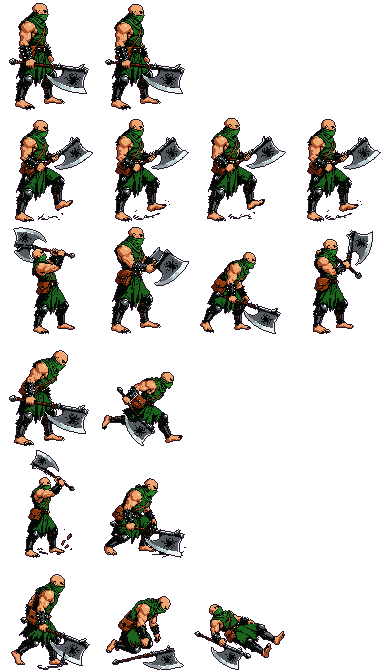
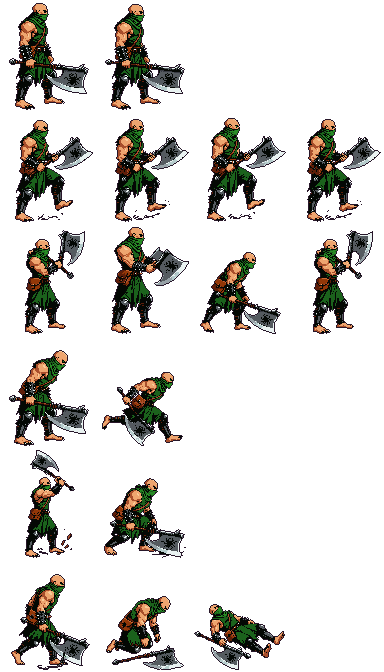
D667: Mayor Hall boss wind-up copies the raised-axe frame
Claude-Session: https://claude.ai/code/session_01A2gnDWaoeJGbj3GPH4dnCF

Changed region(s): [[0.0312, 0.3438, 0.2188, 0.5]]

diff --git a/Scripts/Tools/comfy_sprite.py b/Scripts/Tools/comfy_sprite.py
@@ -2181,9 +2181,7 @@ CHARACTERS = {
             (
                 "attack",
                 [
-                    "in the same side view facing right: winding up, gripping the huge axe in both hands and lifting it up over "
-                    "his right shoulder, the same axe as in the picture: the same long straight handle, the same single "
-                    "broad steel blade with the black scorpion sign, the same size and shape, not bent, leaning back",  # D648: замах перекрутив сокиру
+                    "ROT:attack:3:0",  # D667: модель двічі перекрутила сокиру в замаху — копія піднятої сокири з кінця ряду
                     "in the same side view facing right: the huge axe swung forward and down in both hands, its blade in "
                     "front of his chest; no motion trail, no swoosh line",
                     "in the same side view facing right: follow-through, the axe blade low in front of him near the "

diff --git a/design/figma_decision_register.md b/design/figma_decision_register.md
@@ -822,3 +822,4 @@ The end screen is drawn in Figma first (#54's "demo end screen", Claude draws). 
 | D664 | ROUTINE CALL | **The Mayor Hall fight with the Scorpicore axe-warrior, as built** (D468, D556, D557, D644; `cloud/mayor-boss`). `Scenes/Characters/Bosses/scorpicore_warrior.tscn` (`enemy_type` `scorpicore_warrior`, bar name "The Scorpicore Axe-Warrior", uk «Сокирник Скорпікори», agent call: he has no name yet) uses `mayor_hall_boss/sheet.png` on the Brass Collector's grid and moves. **Sweep** ≤ 69 px, 2 swings, yellow then red (phase 2: yellow, yellow, red). **Charge** 140–600 px, wind-up 0.8 s, 320 px dash, red. **Slam** ≤ 240 px, wind-up 1.0 s, a shockwave 240 px each side, red (jump over it). The pattern, the preferred range of 60 px and phase 2 are the Collector's (D577). The glint sits on the axe blade of each pose (`tell_at` (−20, −40), `tell_at_charge` (22, 22), `tell_at_slam` (−6, −47)). The stagger pose is frame 20 of the same sheet, since there is no `stagger.png`. Hurtbox and hitbox match the drawn sprite (B128): reach 67.5 px. Voice: roar and shout `boss_shout`, death `boss_death`, and his dialogue babble is `bandit_leader`. He has a dialogue character `SCORPICORE_WARRIOR` (portrait from `build_portraits.gd`) and a bestiary entry, and he is not listed in the Journal's people. Objective: "Survive the Scorpicore Axe-Warrior". `MayorHall` node `ScorpicoreWarrior`, mark `WarriorStand` (was `CollectorStand`). The sleep gas is gone from the hall (D556). |
 | D665 | ROUTINE CALL | **The axe-warrior's numbers, from D642** (`cloud/mayor-boss`; no `cloud/difficulty` formula existed). The hero meets him at **level 5** (`verify_xp_curve`: the City is reached at 5, and the hall's 400 XP takes him to 8). A level-5 hero with an iron sword and no attribute points has 180 HP and 65 Phys. Atk. **HP 2600** = 40 light hits (35 with the combo's ×1.4 finisher). **Damage 48** per sweep swing = 4 hits to kill, **charge ×1.15** (55) = 4, **slam ×1.3** (62) = 3. Before this, the Collector had 1400 HP, damage 36, charge ×1.3 and slam ×1.5. XP 400, speed 55, poise 14 and stagger 0.6 s are unchanged. A strength-only build (20 points, Phys. Atk. 85) still wins in 31 hits, so "an attribute-only hero must struggle" waits for strength's diminishing returns (D642, `cloud/difficulty`). `verify_mayor_boss.gd` [1] and [2] fail if the numbers drift outside 35–45 hits and 3–4 hits. |
 | D666 | ROUTINE CALL | **The giant scorpion in the Mayor Hall cutscene** (D557, D556, D300; `cloud/mayor-boss`). `giant_scorpion.tscn` is a Node2D with a sprite (×2, 256×160) and idle, walk and sting animations. It has no body and no hitbox, so it never deals damage. **Wall burst:** after the burst it walks out of the breach (`ScorpionOut` x 840 → `ScorpionStand` x 740, fading in) and rears (sting) with a roar (`brass_collector_roar`, the shared creature roars). The warrior climbs out in front of it and shouts. The scorpion turns and walks back into the breach, fading out, and then `MayorHall_WallBurst` plays. **Win:** the warrior falls; the scorpion comes back to his body, the body fades ("taken"), the scorpion leaves through the breach, then `MayorHall_Victory` plays (Kusakam only, in clouds) and the screen goes black → LabCells. **Loss:** black, `MayorHall_Defeat` (the warrior orders the clan to bind him, D556) → LabCells, no Game Over. Draft lines `[ЧЕРНЕТКА]` / `[DRAFT]` in `dialogue_quest/MayorHall_*.dqd` and `dialogue_quest/en/MayorHall_*.dqd`. |
+| D667 | TECH | **The axe wind-up is a copy, not a new drawing** (Sapega, 2026-10-23: «комфі знову намалював сокиру невірно»). Twice the model bent the axe in the Mayor Hall boss's wind-up, so `attack` frame 0 is now `ROT:attack:3:0`, a lossless copy of the row's last frame (the axe raised upright at the shoulder, drawn right). The swing reads raise → strike → follow-through → raise. |
